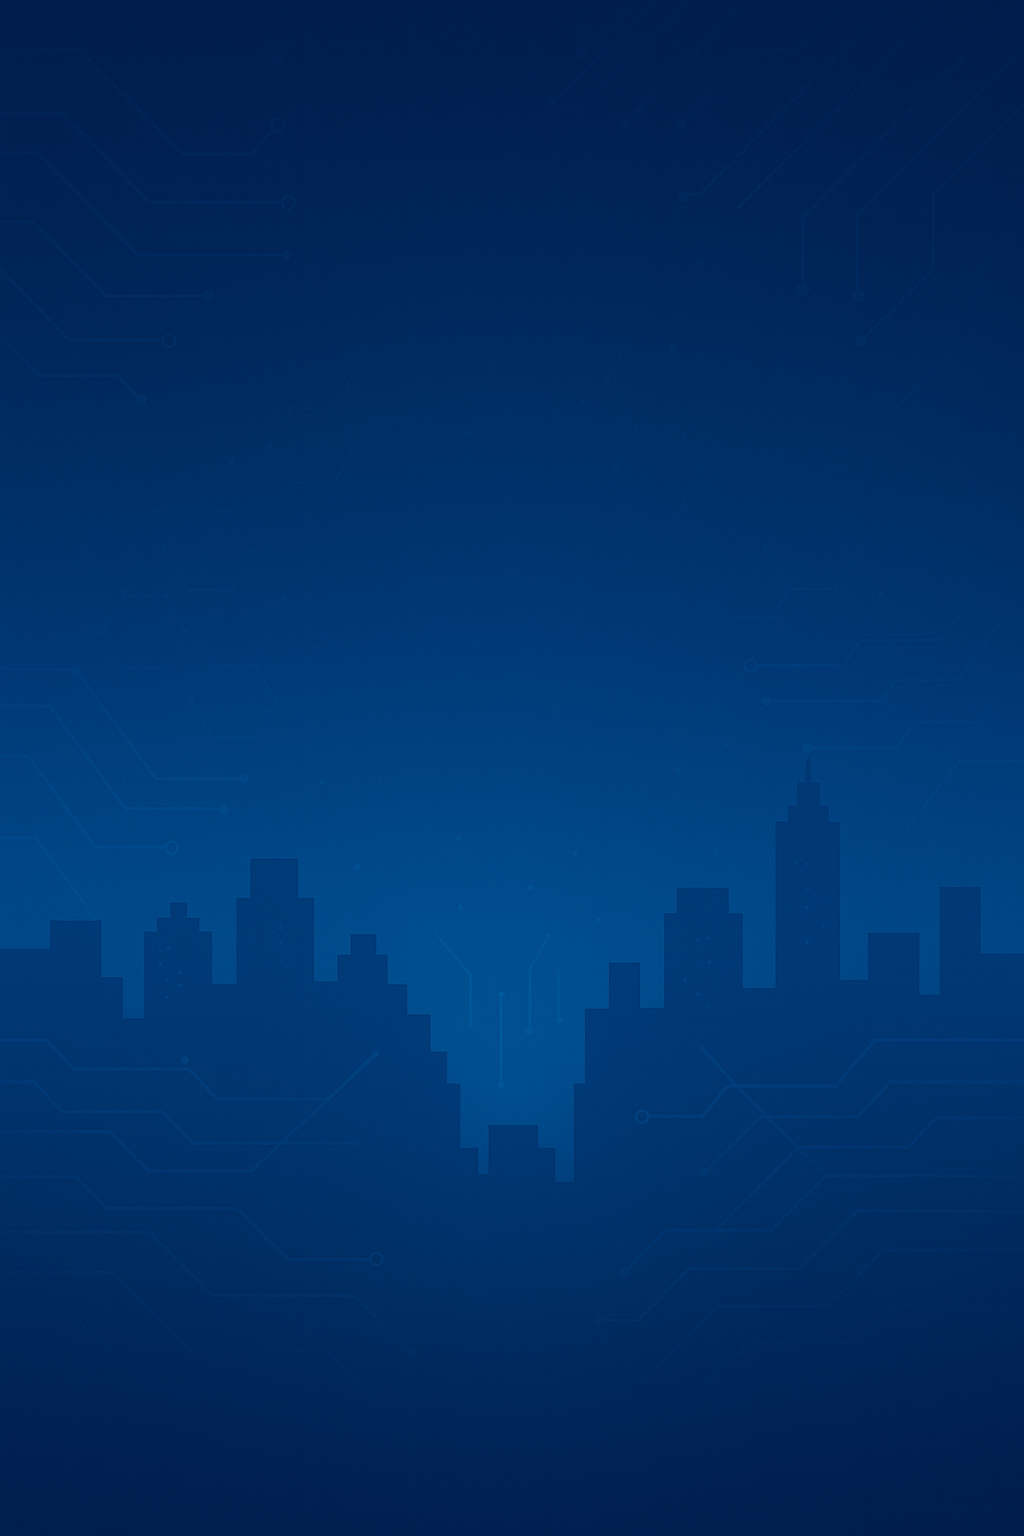
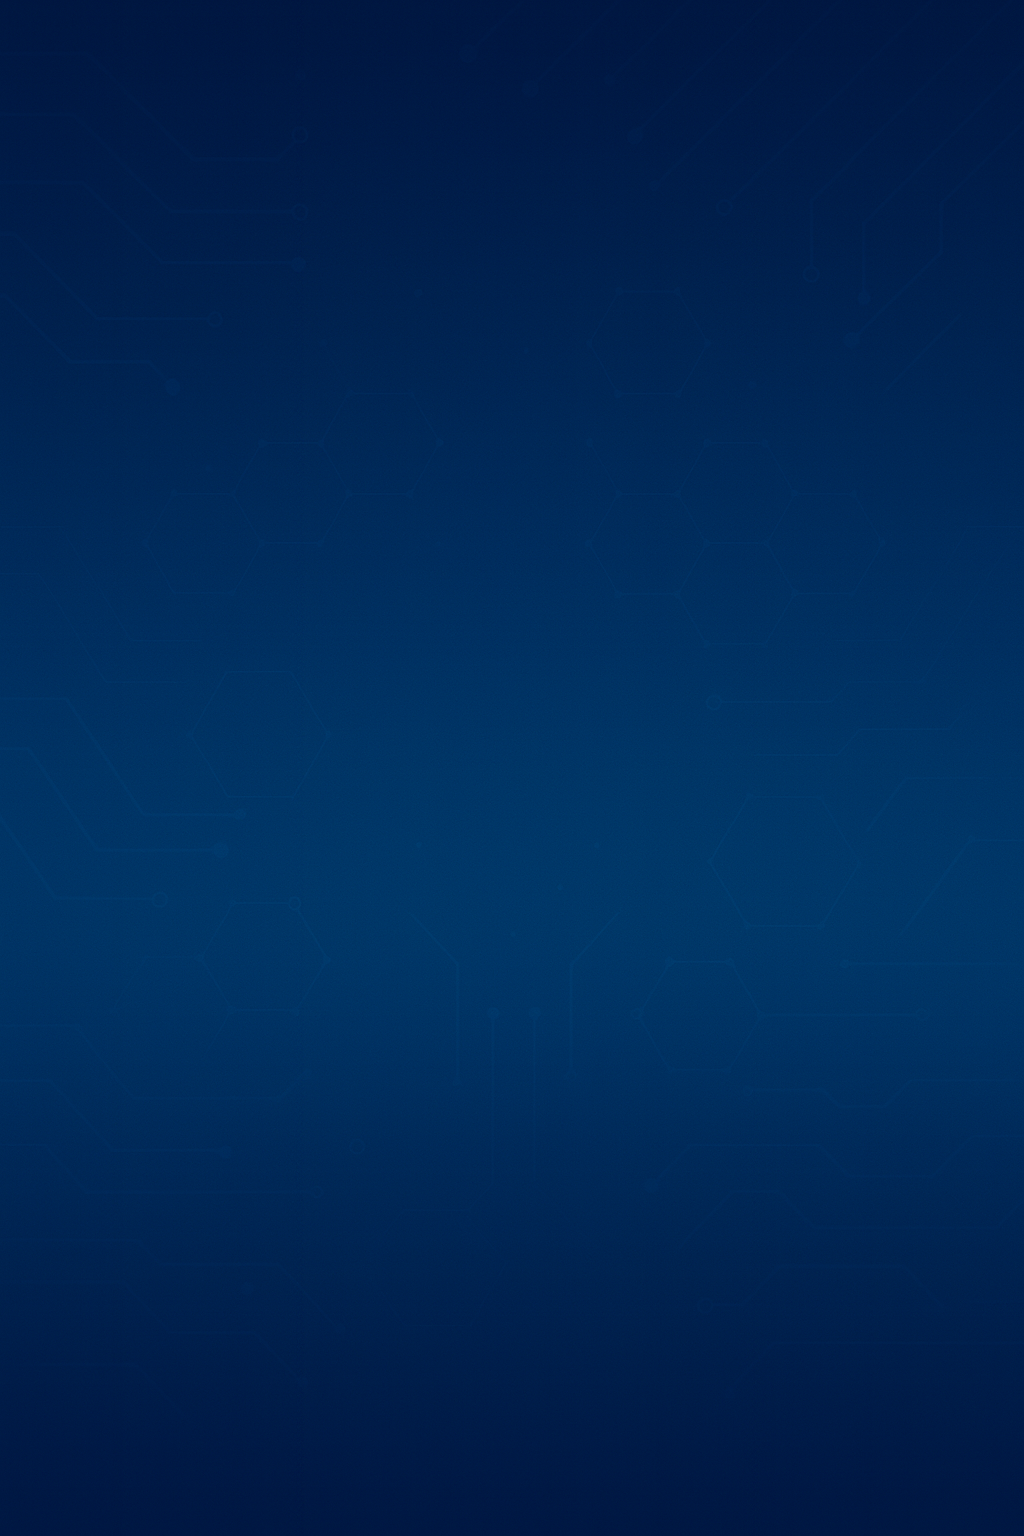
Feature: color de ícono de éxito modificado

diff --git a/src/app/media/icons/check-icon/check-icon.ts b/src/app/media/icons/check-icon/check-icon.ts
@@ -12,13 +12,19 @@ import { Component, input } from '@angular/core';
     fill="none"
     xmlns="http://www.w3.org/2000/svg"
   >
-    <path
-      d="M37.5 70.3125C55.6218 70.3125 70.3125 55.6218 70.3125 37.5C70.3125 19.3782 55.6218 4.6875 37.5 4.6875C19.3782 4.6875 4.6875 19.3782 4.6875 37.5C4.6875 55.6218 19.3782 70.3125 37.5 70.3125Z"
-      fill="#2464EC"
+    <!-- Círculo: borde blanco, sin relleno -->
+    <circle
+      cx="37.5"
+      cy="37.5"
+      r="32.8125"
+      stroke="white"
+      stroke-width="4"
+      fill="none"
     />
+    <!-- Visto: blanco -->
     <path
       d="M54.0625 22.8125L32.8125 44.0625L24.0625 35.3125L19.6875 39.6875L32.8125 52.8125L58.4375 27.1875L54.0625 22.8125Z"
-      fill="#BDD1F9"
+      fill="white"
     />
   </svg>`,
 })

diff --git a/src/login/template/template.component.html b/src/login/template/template.component.html
@@ -55,9 +55,19 @@
       class="background-img"
       [src]="backgroundPngUrl"
       alt="Background"
-      style="position: absolute; top: 0; left: 0; width: 100%; height: 100%; object-fit: cover; z-index: -1"
+      style="
+        position: absolute;
+        top: 0;
+        left: 0;
+        width: 100%;
+        height: 100%;
+        object-fit: cover;
+        z-index: -1;
+        opacity: 1.2; /* 20% menos opaca */
+      "
     />
-    @if (page()?.name === 'LoginOtpComponent') {
+
+    @if (page()?.name === 'LoginOtpComponent' || page()?.name === 'InfoComponent') {
       <div
         style="
           position: absolute;

diff --git a/src/login/pages/info/info.component.html b/src/login/pages/info/info.component.html
@@ -13,9 +13,9 @@
     style="margin-bottom: 2rem"
   ></app-check-icon>
 
-  <h2 style="color: #007bff; margin-bottom: 1rem; font-weight: 600; font-size: 1.2rem">Verificación exitosa</h2>
+  <h2 style="color: #ffffff; margin-bottom: 1rem; font-weight: 600; font-size: 1.2rem">Verificación exitosa</h2>
 
-  <p style="font-size: 0.9rem; color: #333; margin-bottom: 2rem">Tu correo electrónico ha sido verificado</p>
+  <p style="font-size: 0.9rem; color: #ffffff; margin-bottom: 2rem">Tu correo electrónico ha sido verificado</p>
 
   <button class="kcButtonClass">Aceptar</button>
 </div>

diff --git a/src/login/main.css b/src/login/main.css
@@ -27,7 +27,7 @@
   background-color: #007bff;
   color: white;
   border: none;
-  border-radius: 22px;
+  border-radius: 8px !important;
   padding: 0.75rem 1.5rem;
   cursor: pointer;
   transition: background-color 0.3s ease;
